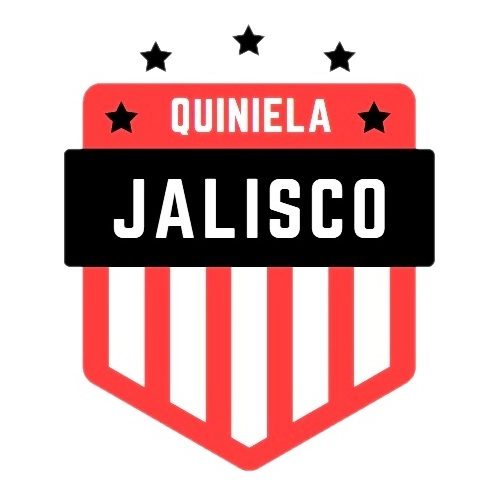
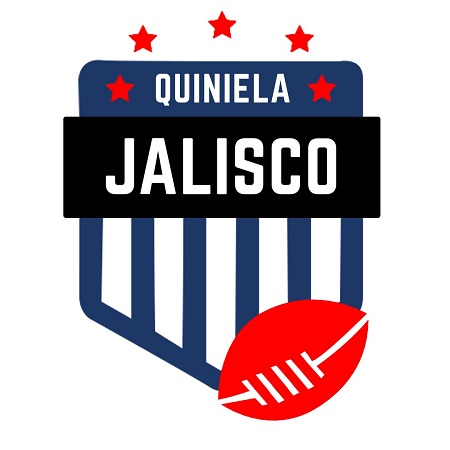
Version 2

diff --git a/index.html b/index.html
@@ -3,7 +3,7 @@
 <head>
     <meta charset="UTF-8">
     <meta name="viewport" content="width=device-width, initial-scale=1.0, user-scalable=no">
-    <title>Quiniela Jalisco</title>
+    <title>Quiniela Jalisco NFL</title>
     <link href="https://fonts.googleapis.com/css2?family=Roboto&display=swap" rel="stylesheet">
     <link rel="stylesheet" href="styles.css">
     <link rel="icon" href="icon.jpg">
